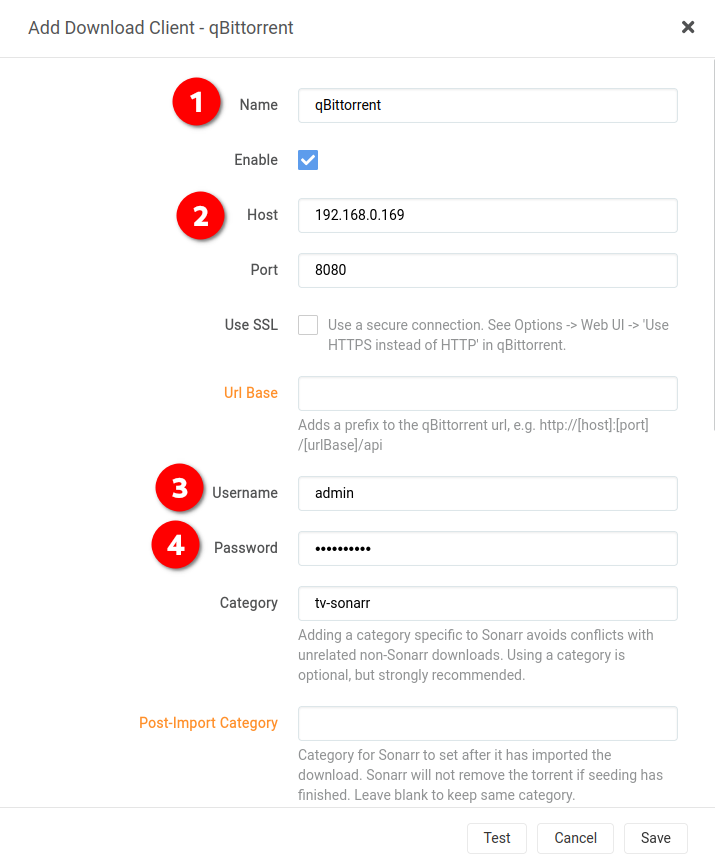
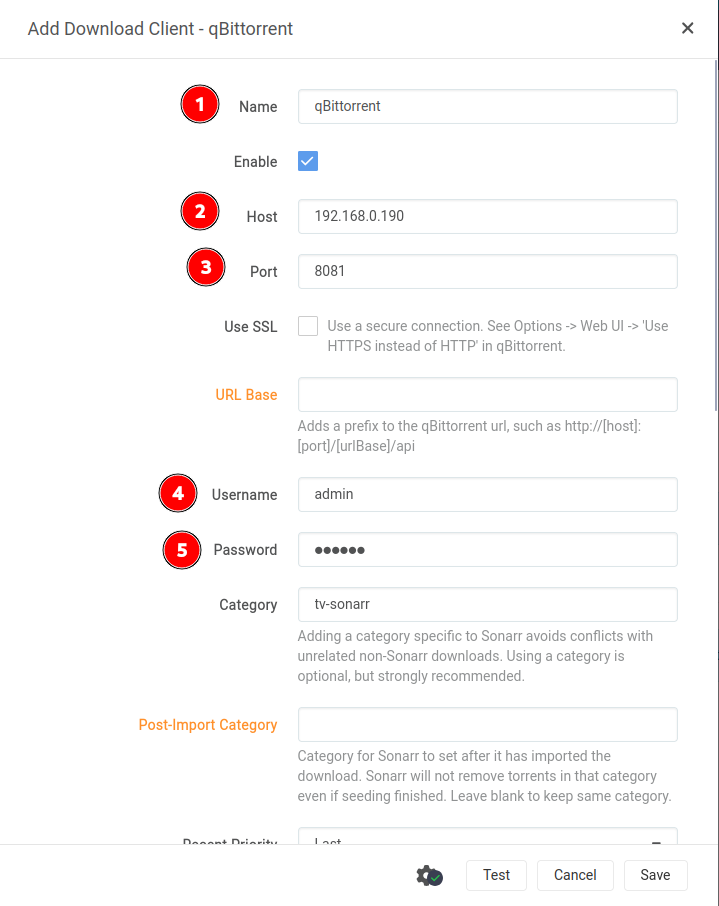
Update Sonarr guide for new authentication setup and hardlinking

diff --git a/content/config/sonarr.md b/content/config/sonarr.md
@@ -16,7 +16,16 @@ In YAMS, Sonarr is going to manage all our TV Shows, download them, sort them, e
 
 ## Initial configuration
 
-In your browser, go to [http://{your-ip-address}:8989/]() and you'll see Sonarr's empty page. You'll also notice you have 3 messages on the system tab, but we'll deal with them later.
+In your browser, go to [http://{your-ip-address}:8989/](). You'll see the authentication configuration page.
+
+- Select "Forms (Login Page)" as the "Authentication Method".
+- In "Authentication Required" select "Disabled for Local Addresses".
+
+Fill it in with your information and click on save:
+
+[![sonarr-18](/pics/sonarr-18.png)](/pics/sonarr-18.png)
+
+Then you'll see Sonarr's empty page. You'll also notice you have 3 messages on the system tab, but we'll deal with them later.
 
 [![sonarr-1](/pics/sonarr-1.png)](/pics/sonarr-1.png)
 
@@ -35,11 +44,11 @@ At the bottom of the same screen, go to "Root folders" and click on "Add Root Fo
 
 [![sonarr-3](/pics/sonarr-3.png)](/pics/sonarr-3.png)
 
-And add the `/tv/` folder
+And add the `/data/tvshows/` folder
 
 [![sonarr-4](/pics/sonarr-4.png)](/pics/sonarr-4.png)
 
-**Note:** This is NOT on your filesystem! The `/tv/` folder exists inside the `docker` environment and maps to your server `/mediafolder/tv/` folder!
+**Note:** This is NOT on your filesystem! The `/data/tvshows/` folder exists inside the `docker` environment and maps to your server `/mediafolder/media/tvshows/` folder!
 
 Finally, click on "Save Changes".
 
@@ -59,8 +68,9 @@ On the "Add Download Client" screen, click on "qBittorrent".
 
 - In Name, add the name of your download client (qBittorrent).
 - On Host, add your server IP address (in my case, `192.168.0.169`).
+- On Port, change it to 8081.
 - On Username, add `admin`.
-- On Password, add `adminadmin`.
+- On Password, add `your-qbittorrent-password`.
 
 [![sonarr-15](/pics/sonarr-15.png)](/pics/sonarr-15.png)
 
